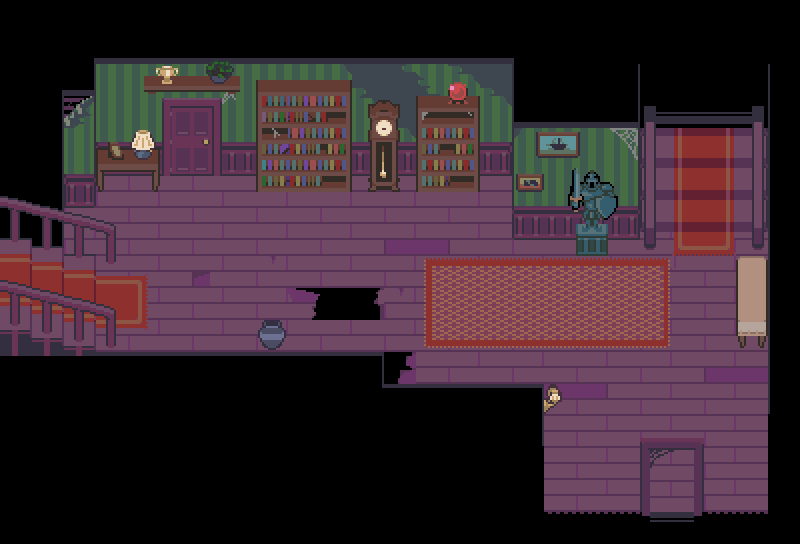
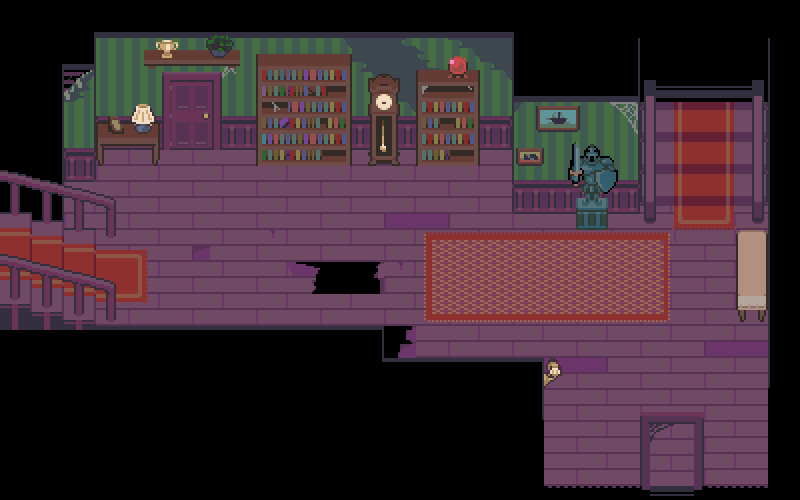
checkpoint

Changed region(s): [[0.0, 0.06, 0.9688, 1.0]]

diff --git a/Monogame - Final Project/Game1.cs b/Monogame - Final Project/Game1.cs
@@ -32,12 +32,19 @@ namespace Monogame___Final_Project
         // Fonts
         SpriteFont titleFont;
 
+        // Images
+        Rectangle eIndicator;
+
         // Sprite sheet
         CutsceneCharacter cutsceneCharacter;
         CutsceneEnemy cutsceneEnemy;
         MainCharacter mainCharacter;
         Texture2D hitTexture;
         List<Rectangle> barriers1;
+        List<Rectangle> barriers2;
+        List<Rectangle> barriers3;
+        List<Rectangle> barriers4;
+        List<Rectangle> barriers5;
         Texture2D charWalkAnimation, charIdleAnimation, enemyWalkAnimation, enemyIdleAnimation, enemyAtkAnimation, enemySmnAnimation, charTeleportAnimation, charRootAnimation, charRunAnimation;
 
 
@@ -59,7 +66,7 @@ namespace Monogame___Final_Project
 
         protected override void Initialize()
         {
-            screen = Screen.Mansion1;
+            screen = Screen.Mansion2;
             window = new Rectangle(0, 0, 800, 500);
             _graphics.PreferredBackBufferWidth = window.Width;
             _graphics.PreferredBackBufferHeight = window.Height;
@@ -77,6 +84,8 @@ namespace Monogame___Final_Project
             barriers1.Add(new Rectangle(400, 412, 131, 78));
             barriers1.Add(new Rectangle(591, 280, 39, 210));
             barriers1.Add(new Rectangle(447, 290, 163, 35));
+
+            barriers2 = new List<Rectangle>();
             
 
             base.Initialize();
@@ -193,6 +202,11 @@ namespace Monogame___Final_Project
                 mainCharacter.Update(gameTime, barriers1);
             }
 
+            else if (screen == Screen.Mansion2)
+            {
+                mainCharacter.Update(gameTime, barriers2);
+            }
+
             base.Update(gameTime);
         }
 
@@ -231,7 +245,9 @@ namespace Monogame___Final_Project
             }
             else if (screen == Screen.Mansion2)
             {
-                _spriteBatch.Draw(mansion2Texture, new Vector2((window.Width / 2) - (mansion1Texture.Width / 2), (window.Height / 2) - (mansion1Texture.Height / 2)), Color.White);
+                _spriteBatch.Draw(blackTexture, Vector2.Zero, Color.White);
+                _spriteBatch.Draw(mansion2Texture, new Vector2(0, 0), Color.White);
+                mainCharacter.Draw(_spriteBatch);
             }
 
 
